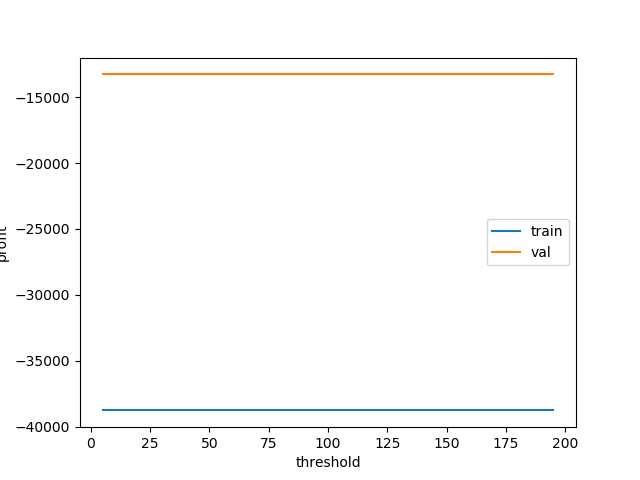
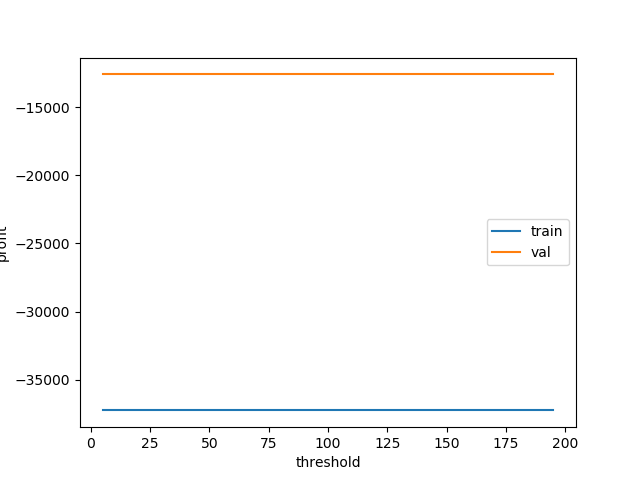
add rr

diff --git a/sunny_bs2.py b/sunny_bs2.py
@@ -86,17 +86,14 @@ def reg_profit(data_dict=None):
     # for c in np.linspace(1e-5, 10, 100000):
     for c in [5]:
         # regression_pro = Ridge(alpha=c, max_iter=10000000, tol=1e-8)
-        # regression_pro = Lasso(alpha=c, max_iter=10000000, tol=1e-8)
-        regression_pro = MLPRegressor(hidden_layer_sizes=(64, 128, 64), activation='relu', solver='adam', alpha=0.00001,
-                                      batch_size='auto', learning_rate='adaptive', max_iter=1000000, shuffle=True,
-                                      tol=1e-48, momentum=0.99, verbose=True, warm_start=True)
+        regression_pro = Lasso(alpha=c, max_iter=10000000, tol=1e-8)
+
         regression_pro.fit(training_data, training_gt)
         score_train = regression_pro.predict(training_data)
         mse_train = np.mean((score_train - training_gt) ** 2)
         score_val = regression_pro.predict(val_data)
         mse_val = np.mean((score_val - val_gt) ** 2)
-        import pdb
-        pdb.set_trace()
+
         score_train_list.append(mse_train)
         score_val_list.append(mse_val)
         print('C=%.3f' % c, 'The train MSE: ', mse_train, 'The val MSE: ', mse_val)
@@ -128,14 +125,26 @@ def cls_response(data_dict):
     print('val_max_profit:', np.maximum(val_gt[:, 1] - 30, 0).sum())
     for c in np.linspace(1e-5, 1, 100):
         svm = SVC(C=c, tol=0.0000001, max_iter=1000000, class_weight='balanced', kernel='poly')
-        svm.fit(training_data, training_gt[:, 0])
-        score_train = svm.score(training_data, training_gt[:, 0])
-        profit_train = pure_profit(svm.predict(training_data), profit_gt=training_gt[:, 1], cls_gt=None)
-        score_val = svm.score(val_data, val_gt[:, 0])
-        profit_val = pure_profit(svm.predict(val_data), profit_gt=val_gt[:, 1], cls_gt=None)
 
-        print('C=%.3f' % c, 'Score_train: %.3f, Score_val:%.3f, Profit_train: %.3f, Profit_val:%.3f'
-              % (score_train, score_val, profit_train, profit_val))
+        svm.fit(training_data, training_gt[:, 0])
+
+        cls_pred_train = svm.predict(training_data)
+        cls_pred_val = svm.predict(val_data)
+
+        total_acc_train, rec_acc_train = recall_cls(cls_pred_train, training_gt[:, 0])
+        profit_train = pure_profit(cls_pred_train, profit_gt=training_gt[:, 1], cls_gt=None)
+        total_acc_val, rec_acc_val = recall_cls(cls_pred_val, val_gt[:, 0])
+        profit_val = pure_profit(cls_pred_val, profit_gt=val_gt[:, 1], cls_gt=None)
+
+        score_train_list.append(total_acc_train)
+        score_val_list.append(total_acc_val)
+        profit_train_list.append(profit_train)
+        profit_val_list.append(profit_val)
+
+        print('c=', c,
+              'total_acc_train: %.3f, rec_acc_train:%.3f, total_acc_val:%.3f, rec_acc_val:%.3f, Profit_train: %.3f, '
+              'Profit_val:%.3f'
+              % (total_acc_train, rec_acc_train, total_acc_val, rec_acc_val, profit_train, profit_val))
     plot_figure(train_data=score_train_list, val_data=score_val_list, start=1e-5, stop=1, num_point=100,
                 xlabels='regularization', ylabels='loss', legends=['train', 'val'],
                 save_path='./figure/acc_average_bs2_svm.png')
@@ -158,7 +167,6 @@ def cls_response_mlp(data_dict):
     test_data = data_dict['test_data']
     test_gt = data_dict['test_gt']
 
-
     print('train_max_profit:', np.maximum(training_gt[:, 1] - 30, 0).sum())
     print('val_max_profit:', np.maximum(val_gt[:, 1] - 30, 0).sum())
 
@@ -177,11 +185,50 @@ def cls_response_mlp(data_dict):
 
     print('total_acc_train: %.3f, rec_acc_train:%.3f, total_acc_val:%.3f, rec_acc_val:%.3f, Profit_train: %.3f, '
           'Profit_val:%.3f'
-          % (total_acc_train, rec_acc_train, total_acc_val,  rec_acc_val, profit_train, profit_val))
+          % (total_acc_train, rec_acc_train, total_acc_val, rec_acc_val, profit_train, profit_val))
+
+
+def regression_mlp(data_dict=None):
+    """
+    This baseline can estimate the customer whether responded.
+    And the ground-truth is the (responded_target \cap (profit_target>30))
+
+    logistic regression
+    data_dict:
+    """
+    training_data = data_dict['training_data']
+    training_gt = data_dict['training_gt'][:, 1]
+    training_data = training_data[np.where((training_gt != 0))[0]]
+    training_gt = training_gt[np.where((training_gt != 0))[0]]
+
+    val_data = data_dict['val_data']
+    val_gt = data_dict['val_gt'][:, 1]
+    val_data = val_data[np.where((val_gt != 0))[0]]
+    val_gt = val_gt[np.where((val_gt != 0))[0]]
+
+    test_data = data_dict['test_data']
+    test_gt = data_dict['test_gt'][:, 1]
+
+    score_train_list = []
+    score_val_list = []
+
+    regression_pro = MLPRegressor(hidden_layer_sizes=(128, 128, 128), activation='relu', solver='adam', alpha=0.001,
+                                  batch_size='auto', learning_rate='adaptive', max_iter=1000000, shuffle=True,
+                                  tol=1e-48, momentum=0.99, verbose=True, warm_start=True, learning_rate_init=0.00001)
+    regression_pro.fit(training_data, training_gt)
+    score_train = regression_pro.predict(training_data)
+    mse_train = np.mean((score_train - training_gt) ** 2)
+    score_val = regression_pro.predict(val_data)
+    mse_val = np.mean((score_val - val_gt) ** 2)
+
+    print('The train MSE: ', mse_train, 'The val MSE: ', mse_val)
 
 
 def baseline2(best_cls_alpha, best_reg_alpha, data_dict):
     training_data = data_dict['training_data']
+    one_index = np.array(data_dict['training_gt'][:, 1] > 30, dtype=np.int16)
+    data_dict['training_gt'][:, 0] = data_dict['training_gt'][:, 0] * one_index
+
     training_gt = data_dict['training_gt'][:, 1]
     training_data_profit = training_data[np.where((training_gt != 0))[0]]
     training_gt_profit = training_gt[np.where((training_gt != 0))[0]]
@@ -208,18 +255,23 @@ def baseline2(best_cls_alpha, best_reg_alpha, data_dict):
     cls_result_train = svm.predict(training_data)
     cls_result_val = svm.predict(val_data)
 
-    reg_result_train = reg.predict(training_data)
-    reg_result_val = reg.predict(val_data)
+    reg_result_train = reg.predict(X=training_data)
+    reg_result_val = reg.predict(X=val_data)
+
+
 
     ## visualize the resutls
     print('best_cls_alpha:', best_cls_alpha, 'best_reg_alpha:', best_reg_alpha)
 
     acc = svm.score(val_data, val_gt_cls)
-    mse = np.mean((reg.predict(val_data_profit) - val_gt_profit) ** 2)
-    import pdb
-    pdb.set_trace()
+    mse = np.mean((reg.predict(X=val_data_profit) - val_gt_profit) ** 2)
 
-    print('acc:', acc, 'MSE:', mse)
+    total_acc_train, rec_acc_train = recall_cls(cls_pred=cls_result_train, cls_gt=train_gt_cls)
+    total_acc_val, rec_acc_val = recall_cls(cls_pred=cls_result_val, cls_gt=val_gt_cls)
+
+    print('validation:', 'acc:', acc, 'MSE:', mse)
+    print('total_acc_train: %.3f, rec_acc_train:%.3f, total_acc_val:%.3f, rec_acc_val:%.3f'
+          % (total_acc_train, rec_acc_train, total_acc_val, rec_acc_val))
 
     profit_train = []
     profit_val = []
@@ -246,8 +298,10 @@ def baseline2(best_cls_alpha, best_reg_alpha, data_dict):
 def main():
     data_dict = dataloder(path='./data', split_ratio=0.8, mode='sample')
     # reg_profit(data_dict=data_dict)
-    # baseline2(best_cls_alpha=0.364, best_reg_alpha=1.8, data_dict=data_dict)
-    cls_response_mlp(data_dict=data_dict)
+    baseline2(best_cls_alpha=0.343, best_reg_alpha=1.8, data_dict=data_dict)
+    # cls_response_mlp(data_dict=data_dict)
+    # regression_mlp(data_dict=data_dict)
+    # cls_response(data_dict)
 
 
 if __name__ == '__main__':

diff --git a/README.md b/README.md
@@ -22,8 +22,8 @@ val_target: (814, 2)
 
 experiments | mode  | setup | acc_most| profit_most| figure_name
 ------------| ----  | ----- | --------| -----------| -----------
-baseline1   | sample | 原始的cls labels, svm | 0.917(c=0.01), 4353 | 0.82, 7731(0.343)| acc_bs1_svm1.png, profit_bs1_svm1.png
-baseline1   | sample | synthesis cls labels, svm | 0.925(c=0.01), 4353 | 0.845, 8103(0.343)| acc_bs1_svm2.png, profit_bs1_svm2.png
+baseline1   | sample | 原始的cls labels, svm | 0.917(c=0.01), 4353 | 0.82, 7731(0.343), RR=0.684| acc_bs1_svm1.png, profit_bs1_svm1.png
+baseline1   | sample | synthesis cls labels, svm | 0.925(c=0.01), 4353 | 0.845, 8103(0.343), RR=0.689| acc_bs1_svm2.png, profit_bs1_svm2.png
 baseline1   | average | 原始的cls labels, svm | 0.917(c=0.01), 4353 | 0.82, 7109(0.364)| acc_average_bs1_svm1.png, profit_average_bs1_svm1.png
 baseline1   | average | synthesis cls labels, svm | 0.925(c=0.01), 4353 | 0.845, 8110(0.333)| acc_average_bs1_svm2.png, profit_average_bs1_svm2.png
 
